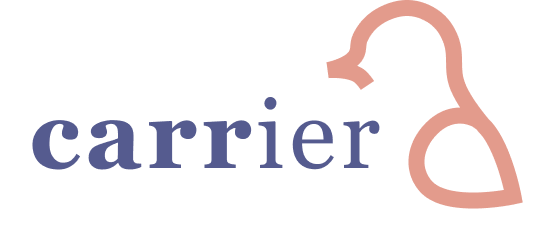
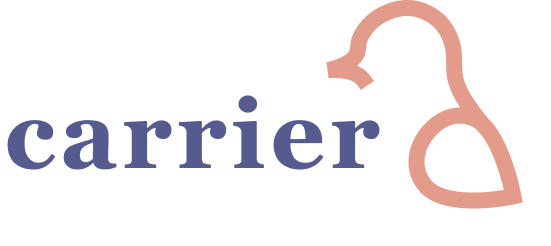
fix breadcrumb nav

Changed region(s): [[0.0, 0.4837, 0.7096, 0.7114], [0.4319, 0.3699, 0.5245, 0.4553]]

diff --git a/frontend/src/components/PastIssue.jsx b/frontend/src/components/PastIssue.jsx
@@ -4,59 +4,59 @@ class PastIssue extends React.Component {
 
     render() {
         return (
-            <div class="page-margin">
+            <div className="page-margin">
                 <h1>On bread</h1>
                 <h4>August 28, 2021</h4>
                 <br></br>
                 <br></br>
 
                 <div>
-                    <div class="card" >
-                        <div class="card-header">
-                            <h2><p class="card-title">What bread did you eat today?</p></h2>
+                    <div className="card" >
+                        <div className="card-header">
+                            <h2><p className="card-title">What bread did you eat today?</p></h2>
                         </div>
-                        <div class="card-body">
-                            <p class="card-text"><strong>Pidgey: </strong>I had some plain white bread today -
+                        <div className="card-body">
+                            <p className="card-text"><strong>Pidgey: </strong>I had some plain white bread today -
                                 I recently been thinking about trying some whole-wheat since I read an article
                                 that says it's better for your health. Just need to get over the taste! </p>
                             <br></br>
-                            <p class="card-text"><strong>Kiwi: </strong>I had some pineapple bread. It was surprisingly good </p>
+                            <p className="card-text"><strong>Kiwi: </strong>I had some pineapple bread. It was surprisingly good </p>
                             <br></br>
-                            <p class="card-text"><strong>Tweety: </strong>This morning I baked some sourdough! Just waiting for it
+                            <p className="card-text"><strong>Tweety: </strong>This morning I baked some sourdough! Just waiting for it
                                 to cool so I can have it with dinner!</p>
-                            <div class="container">
-                                {/* <img class="bread-img" src="bread.jpg"></img> */}
-                                <img class="bread-img" src="https://milkandpop.com/wp-content/uploads/2021/01/sourdough-artisan-bread-baked-without-a-dutch-oven.jpg" alt="bread"></img>
+                            <div className="container">
+                                {/* <img className="bread-img" src="bread.jpg"></img> */}
+                                <img className="bread-img" src="https://milkandpop.com/wp-content/uploads/2021/01/sourdough-artisan-bread-baked-without-a-dutch-oven.jpg" alt="bread"></img>
                             </div>
                         </div>
                     </div>
 
-                    <div class="card" >
-                        <div class="card-header">
-                            <h2><p class="card-title">Share your favourite bread recipe!</p></h2>
+                    <div className="card" >
+                        <div className="card-header">
+                            <h2><p className="card-title">Share your favourite bread recipe!</p></h2>
                         </div>
-                        <div class="card-body">
-                            <p class="card-text"><strong>Kiwi: </strong> This link is my favourite banana bread recipe: </p>
+                        <div className="card-body">
+                            <p className="card-text"><strong>Kiwi: </strong> This link is my favourite banana bread recipe: </p>
                             <br></br>
-                            <p class="card-text"><strong>Tweety: </strong>I like this one for sourdough: </p>
+                            <p className="card-text"><strong>Tweety: </strong>I like this one for sourdough: </p>
                             <br></br>
-                            <p class="card-text"><strong>Pidgey: </strong>I've never made bread before but I've always wanted to
+                            <p className="card-text"><strong>Pidgey: </strong>I've never made bread before but I've always wanted to
                                 try this recipe: </p>
                         </div>
                     </div>
 
-                    <div class="card" >
-                        <div class="card-header">
-                            <h2><p class="card-title">Good places to fly to?</p></h2>
+                    <div className="card" >
+                        <div className="card-header">
+                            <h2><p className="card-title">Good places to fly to?</p></h2>
                         </div>
-                        <div class="card-body">
-                            <p class="card-text"><strong>Tweety: </strong>I love flying over the East Coast! The air is so mild and
+                        <div className="card-body">
+                            <p className="card-text"><strong>Tweety: </strong>I love flying over the East Coast! The air is so mild and
                                 helps the complexion of my feathers. </p>
                             <br></br>
-                            <p class="card-text"><strong>Kiwi: </strong>I recommend flying over New York. There is always food on the ground
+                            <p className="card-text"><strong>Kiwi: </strong>I recommend flying over New York. There is always food on the ground
                                 if you ever want to have a quick snack :0 </p>
                             <br></br>
-                            <p class="card-text"><strong>Pidgey: </strong>You guys should try flying over the Hudson River, the views are so pretty there.</p>
+                            <p className="card-text"><strong>Pidgey: </strong>You guys should try flying over the Hudson River, the views are so pretty there.</p>
                         </div>
                     </div>
                 </div>

diff --git a/frontend/src/components/Breadcrumbs.jsx b/frontend/src/components/Breadcrumbs.jsx
@@ -1,49 +1,28 @@
 import React from "react";
-import { Link, withRouter } from "react-router-dom";
+import { withRouter } from "react-router-dom";
+import { Breadcrumb } from 'react-bootstrap';
+
+import logo from '../assets/carrier.png'
+
+import './Breadcrumbs.css';
 
 function Breadcrumbs(props) {
     return (
         <div className="navigation">
-            <nav className="navbar navbar-expand navbar-dark bg-dark">
-                <div className="container">
-                    <div>
-                        <ul className="navbar-nav ml-auto">
-                            <li
-                                className={`nav-item  ${props.location.pathname === "/" ? "Groups" : ""
-                                    }`}
-                            >
-                                <Link className="nav-link" to="/">
-                                    Groups
-                                    <span className="sr-only">(current)</span>
-                                </Link>
-                            </li>
-                            <li
-                                className={`nav-item  ${props.location.pathname === "/Groups/Group" ? "active" : ""
-                                    }`}
-                            >
-                                <Link className="nav-link" to="/Groups/Group">
-                                    / Group
-                                </Link>
-                            </li>
-                            <li
-                                className={`nav-item  ${props.location.pathname === "/Groups/Group/Posts" ? "active" : ""
-                                    }`}
-                            >
-                                <Link className="nav-link" to="/Groups/Group/Posts">
-                                    / Posts
-                                </Link>
-                            </li>
-                            <li
-                                className={`nav-item  ${props.location.pathname === "/Groups/Group/IssueMaker" ? "active" : ""
-                                    }`}
-                            >
-                                <Link className="nav-link" to="/Groups/Group/Posts/IssueMaker">
-                                    / IssueMaker
-                                </Link>
-                            </li>
-                        </ul>
-                    </div>
-                </div>
+            <img src={logo} alt="carrier logo" className="carrier-logo"/>
+            <nav className="navbar">
+                <Breadcrumb className="breadcrumb">
+                    <Breadcrumb.Item className="breadcrumb-item" href="/">Groups</Breadcrumb.Item>
+                    {props.location.pathname.includes("TheBreadGang") && <Breadcrumb.Item href="/Groups/TheBreadGang">
+                        The Bread Gang
+                    </Breadcrumb.Item>}
+                    {props.location.pathname.includes("Posts") && <Breadcrumb.Item className="breadcrumb-item" href="/Groups/TheBreadGang/Posts">
+                        Posts
+                    </Breadcrumb.Item >}
+                    {props.location.pathname.includes("Aug28") && <Breadcrumb.Item href="Groups/TheBreadGang/Posts/Aug28">Aug 28</Breadcrumb.Item>}
+                    {props.location.pathname.includes("Aug29") && <Breadcrumb.Item href="Groups/TheBreadGang/Posts/Aug29">Aug 29</Breadcrumb.Item>}
+                    {props.location.pathname.includes("Edit") && <Breadcrumb.Item href="Groups/TheBreadGang/Posts/Aug29/Edit">Edit</Breadcrumb.Item>}
+                </Breadcrumb>
             </nav>
         </div>
     );

diff --git a/frontend/src/components/Groups.jsx b/frontend/src/components/Groups.jsx
@@ -6,17 +6,17 @@ class Groups extends React.Component {
 
     render() {
         return (
-            <div class="container-fluid" id="center-row">
-                <div class="row">
-                    <div class="col-md-4">
+            <div className="container-fluid" id="center-row">
+                <div className="row">
+                    <div className="col-md-4">
                         <Button
                             id="group-button"
                             style={{ height: '200px', width: '200px' }}
-                            onClick={() => window.location.href = "http://localhost:3000/Groups/TheBreadGang/Posts"}
+                            onClick={() => window.location.href = "/Groups/TheBreadGang/Posts"}
                             children="THE BREAD GANG"
                         />
                     </div>
-                    <div class="col-md-4">
+                    <div className="col-md-4">
                         <Button
                             id="group-button"
                             style={{ height: '200px', width: '200px' }}
@@ -24,7 +24,7 @@ class Groups extends React.Component {
                             children="THE BEES"
                         />
                     </div>
-                    <div class="col-md-4">
+                    <div className="col-md-4">
                         <Button
                             id="group-button"
                             style={{ height: '200px', width: '200px' }}

diff --git a/frontend/src/components/Posts.jsx b/frontend/src/components/Posts.jsx
@@ -1,6 +1,5 @@
 import React from "react";
 import { Button } from "react-bootstrap";
-import history from './history';
 import { Link } from 'react-router-dom';
 
 import { getPostsByGroup } from '../api/post';
@@ -25,7 +24,7 @@ class Posts extends React.Component {
     }
 
     handleClickNewPost = () => {
-        history.push('/Groups/Group/Posts/New');
+        window.location.href = '/Groups/TheBreadGang/Posts/Aug29/Edit';
     }
 
     render() {
@@ -48,7 +47,7 @@ class Posts extends React.Component {
                 <div className="header">
                     <div className="header-title">POSTS</div>
                     <Button variant="primary" type="submit" className="primary-btn" onClick={this.handleClickNewPost}>
-                        New Post
+                        Edit Current Post
                     </Button>
                 </div>
                 {posts}

diff --git a/frontend/src/App.js b/frontend/src/App.js
@@ -10,7 +10,7 @@ function App() {
         <Switch>
           <Route path="/" exact component={() => <Groups />} />
           <Route path="/Groups/:group/Posts" exact component={() => <Posts />} />
-          <Route path="/Groups/:group/Posts/IssueMaker" exact component={() => <IssueMaker />} />
+          <Route path="/Groups/:group/Posts/Aug29/Edit" exact component={() => <IssueMaker />} />
           <Route path="/Groups/:group/Posts/Aug28" exact component={() => <PastIssue />} />
         </Switch>
       </Router>

diff --git a/frontend/src/index.css b/frontend/src/index.css
@@ -36,7 +36,6 @@ h1,h4 {
 }
 
 #group-button {
-  #group-button {
   background-color: #7BA0CF !important;
   border-color: #7BA0CF !important;
   font-family:'Segoe UI'!important;
@@ -44,8 +43,6 @@ h1,h4 {
   font-weight:bold!important;
   text-align: left;
   padding-left: 45px;
-}
-
 }
 
 Button {

diff --git a/frontend/src/components/Breadcrumbs.css b/frontend/src/components/Breadcrumbs.css
@@ -1,0 +1,19 @@
+.breadcrumb {
+    background-color: #EDF3FD;
+    margin-bottom: 0;
+}
+
+.breadcrumb-item a {
+    color: #E39B8C;
+}
+
+.carrier-logo {
+    width: 135px;
+    height: 56px;
+    margin-top: 20px;
+    margin-left: 35px;
+}
+
+.navbar {
+    margin-bottom: 0;
+}
